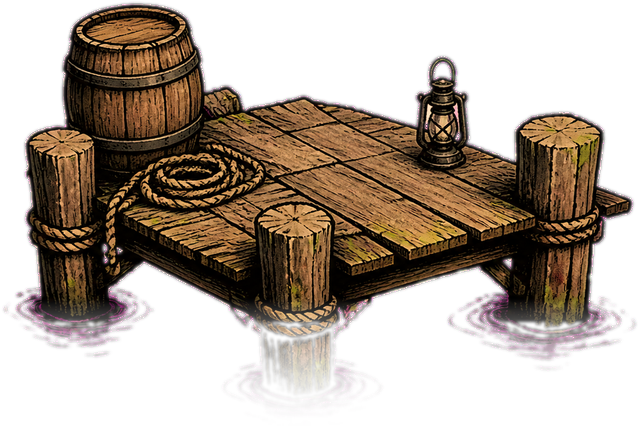
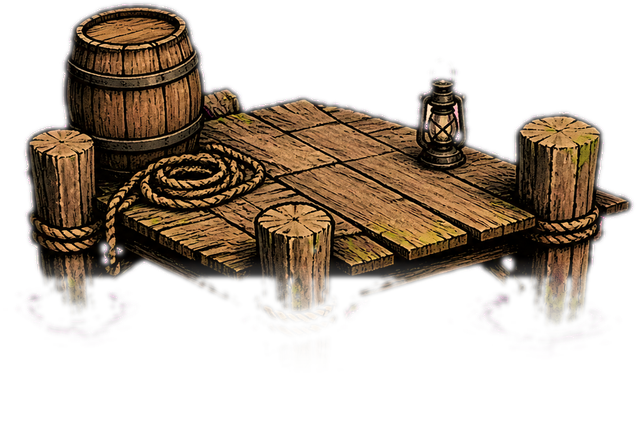
Sit the valley props on the ground and thin the dusk wash.
Add visible foot shadows, clamp the camera so the brown strip is gone, put × in the kai font, and draw 暖 on a paper plaque. One notch less orange so the painting keeps its own light.

diff --git a/godot/project.test.ts b/godot/project.test.ts
@@ -37,8 +37,19 @@ test("Valley look is one dusk illustration, not DST stickers", () => {
   assert.ok(existsSync("godot/assets/art/ground-valley.png"));
   const look = readFileSync("godot/scripts/look.gd", "utf8");
   assert.match(look, /kai\.ttf/);
+  assert.match(look, /multiply\.ttf/);
   assert.match(look, /tex-plaque/);
+  assert.match(look, /contact\(/);
+  assert.match(look, /name_box/);
   assert.doesNotMatch(look, /SystemFont/);
+  const play = readFileSync("godot/scripts/play.gd", "utf8");
+  assert.match(play, /_clamp_cam/);
+  assert.match(play, /%s×%s/);
+  assert.match(play, /1\.0, 1\.0, 0\.97/);
+  assert.ok(existsSync("godot/fonts/multiply.ttf"));
+  const actor = readFileSync("godot/scripts/actor_view.gd", "utf8");
+  assert.match(actor, /CanvasLayer/);
+  assert.match(actor, /_place_name/);
   const boot = readFileSync("godot/scripts/boot.gd", "utf8");
   assert.match(boot, /cover-valley/);
   assert.doesNotMatch(boot, /prop-cabin|prop-inn|Wanderer/);

diff --git a/tools/paint_look.py b/tools/paint_look.py
@@ -152,6 +152,47 @@ def cut_prop(im: Image.Image, tol: float = 36.0) -> Image.Image:
     return spr
 
 
+def soften_sit(im: Image.Image, fade: float = 0.30) -> Image.Image:
+    """Fade the feet and kill ink rings. Do not grade dusk again."""
+    buf = np.asarray(im.convert("RGBA"), dtype=np.float32) / 255.0
+    h, _w = buf.shape[:2]
+    a = buf[:, :, 3]
+    ys = np.where(a > 0.08)[0]
+    if len(ys) == 0:
+        return im.convert("RGBA")
+    y0, y1 = int(ys.min()), int(ys.max())
+    span = max(1, y1 - y0)
+    fade_from = y1 - int(span * fade)
+    yy = np.arange(h)[:, None]
+    t = np.clip((y1 - yy) / max(10.0, span * fade), 0, 1)
+    fall = np.where(yy > fade_from, t * t, 1.0)
+    g, r, b = buf[:, :, 1], buf[:, :, 0], buf[:, :, 2]
+    grass = (g > r + 0.03) & (g > b) & (yy > y0 + span * 0.52)
+    waterish = (b > r + 0.04) & (b > g * 0.9) & (yy > y0 + span * 0.50)
+    fall = np.where(grass | waterish, fall * 0.12, fall)
+    buf[:, :, 3] *= fall
+    lum = buf[:, :, :3] @ np.array([0.3, 0.5, 0.2], dtype=np.float32)
+    buf[(lum < 0.04) & (buf[:, :, 3] < 0.75), 3] = 0
+    out = Image.fromarray(np.clip(buf * 255, 0, 255).astype(np.uint8), "RGBA")
+    a = out.getchannel("A").filter(ImageFilter.MinFilter(3)).filter(ImageFilter.GaussianBlur(2.0))
+    out.putalpha(a)
+    return out
+
+
+def finish_sit_props() -> None:
+    for name, fade in (
+        ("prop-cabin.png", 0.28),
+        ("prop-stall.png", 0.26),
+        ("prop-dock.png", 0.34),
+        ("prop-dock-b.png", 0.34),
+        ("prop-anvil.png", 0.22),
+        ("prop-altar.png", 0.22),
+    ):
+        p = ART / name
+        if p.exists():
+            save(soften_sit(Image.open(p), fade), name)
+
+
 def finish_anvil_altar() -> None:
     for dest, src, fade in (
         ("prop-anvil.png", "anvil-ref.png", 0.14),

diff --git a/tools/tighten_look.py b/tools/tighten_look.py
@@ -9,12 +9,11 @@ from pathlib import Path
 ROOT = Path(__file__).resolve().parents[1]
 sys.path.insert(0, str(ROOT / "tools"))
 
-from paint_look import finish_anvil_altar, paint_ground, save  # noqa: E402
+from paint_look import finish_sit_props  # noqa: E402
 
 
 def main() -> None:
-    finish_anvil_altar()
-    save(paint_ground(), "ground-valley.png")
+    finish_sit_props()
     print("tightened")
 
 
